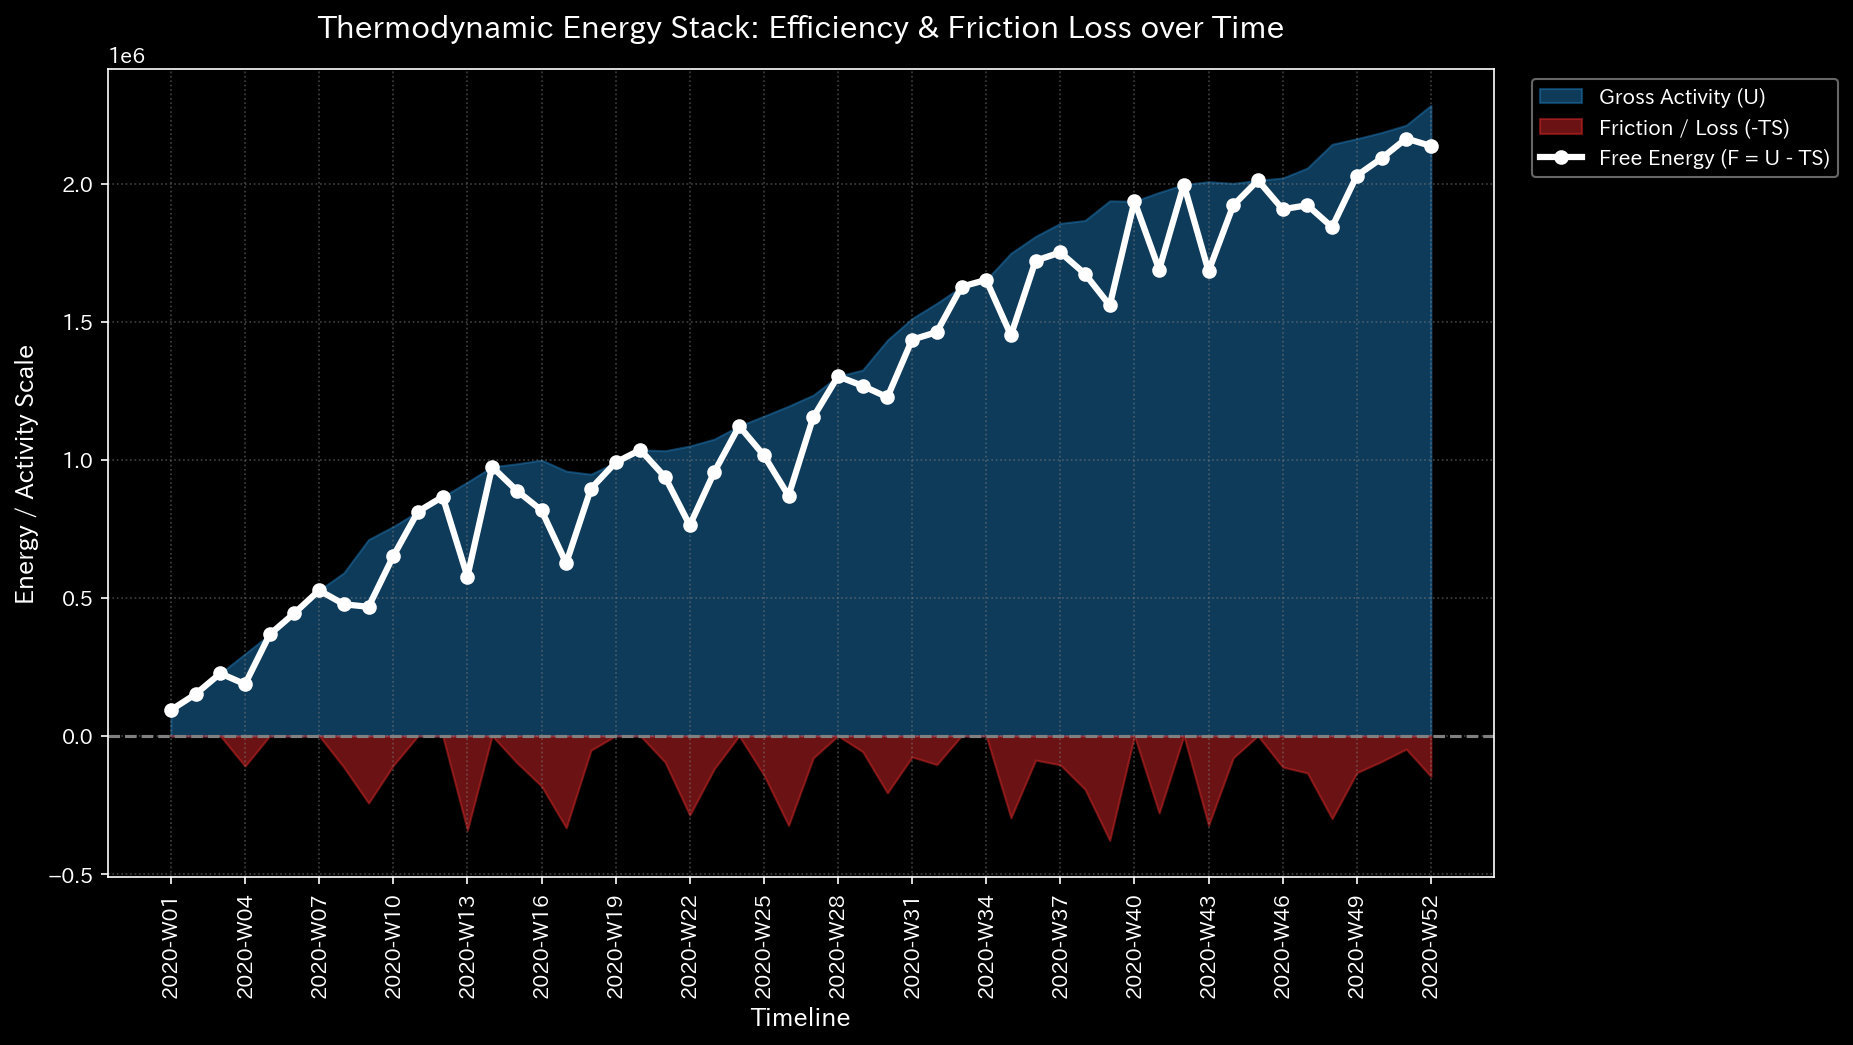
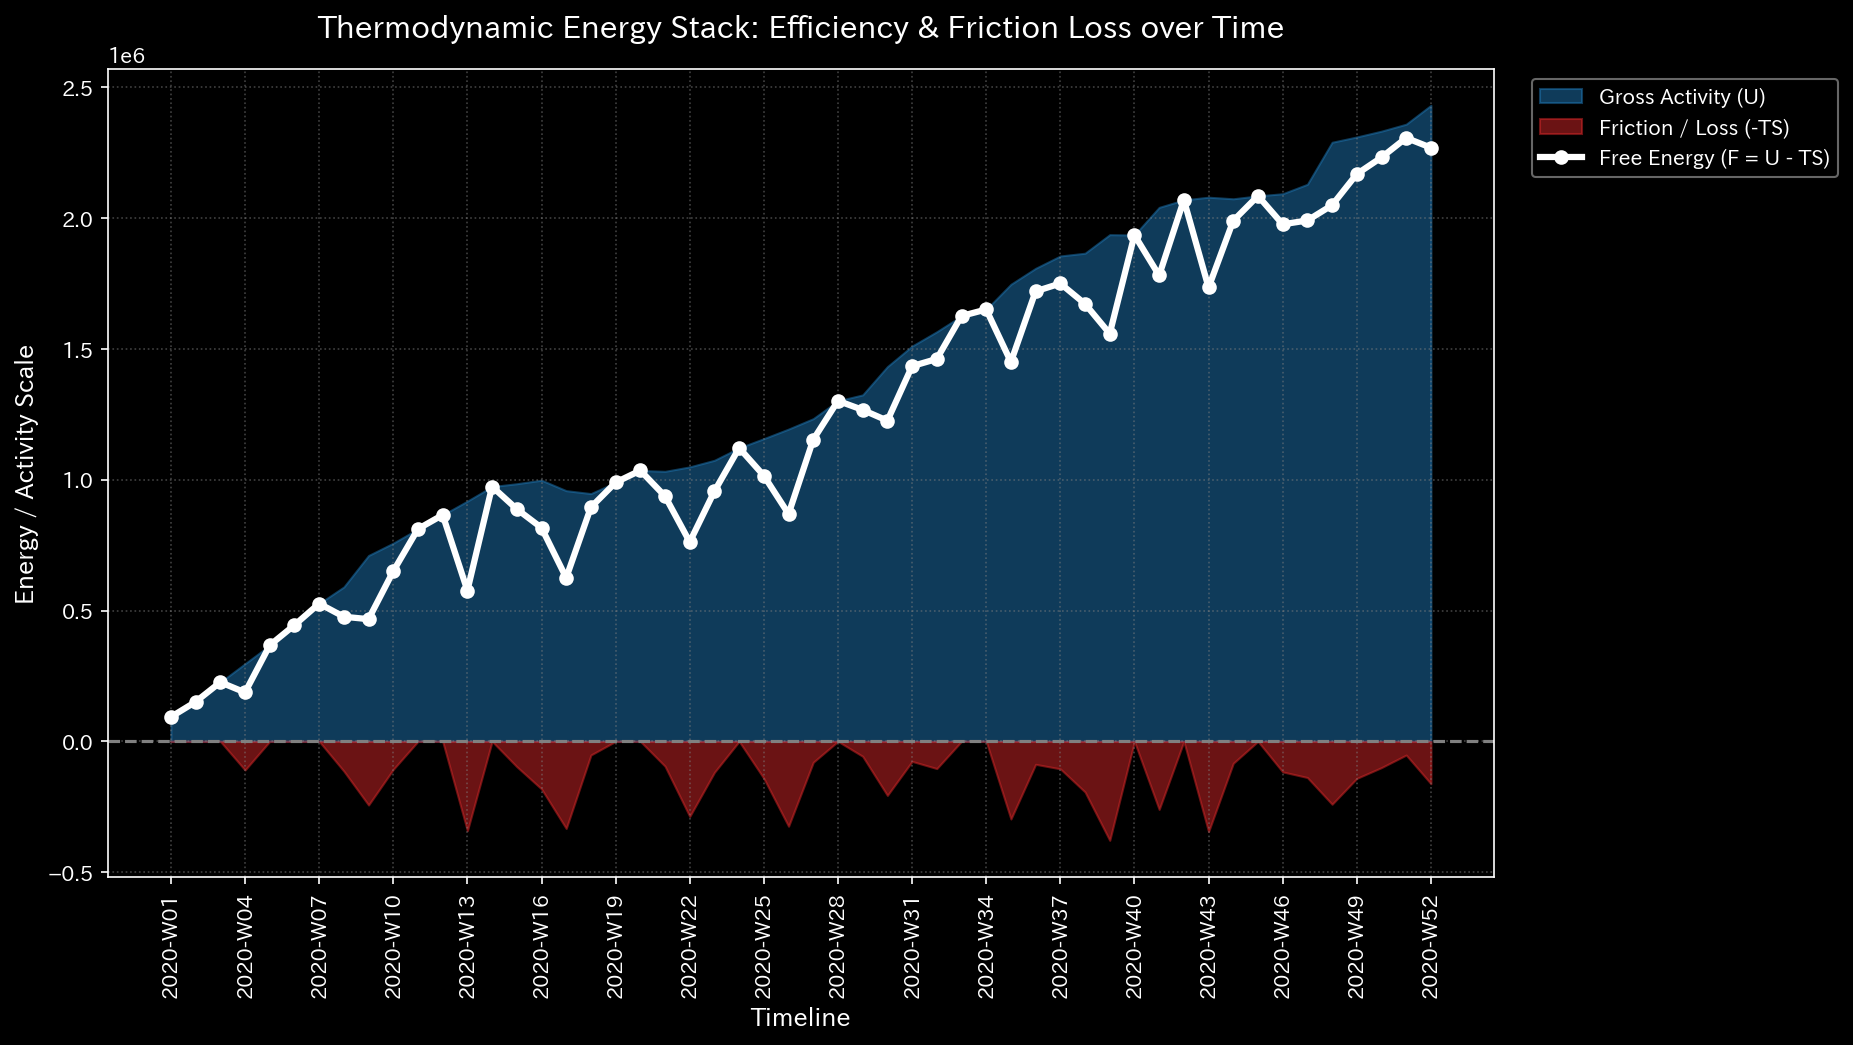
Regenerate Sample_1 README.md.

diff --git a/docs/ja/samples/Sample_1_Wash_Trade/README.md b/docs/ja/samples/Sample_1_Wash_Trade/README.md
@@ -1,49 +1,82 @@
-# Sample 1: 循環取引 (Wash Trade)
+# Sample 1: 循環取引（Wash Trading）
 
 > [!NOTE]
 > **概念実証実験にともなう免責事項**
-> 本レポートで分析されるデータは実世界の企業のものではありません。検証を目的として、特定の病理学的状態を意図的に再現するために設計されたダミーデータです。
+> 本レポートで分析されるデータは実世界の企業のものではありません。検証を目的として、特定の病理学的状態を意図的に再現するために設計されたダミーデータです。本サンプル（Sample_1_Wash_Trade）は、売上の水増しを目的とした「循環取引（資金のキャッチボール）」がシステムに与えるトポロジー的異常を証明するためのものです。
 
 ---
 
 # 🔬 メタ解析 統合レポート (Meta-Analysis Synthesis Report / Laboratory Findings)
 
 ## 1. エグゼクティブ・サマリー
+本システム（金融ドメイン）は、**位相幾何学的な異常ループ（Topological Feedback Loop）** を発症しており、危険な状態（HIGH）にあります。総収益 $1,067,391.62 のうち、複数の「売掛金と現金のキャッチボール」による架空売上（循環取引）がシステム内に混入しています。質量保存則は維持されているため貸借対照表（B/S）の左右は完全に一致していますが、ネットワーク・トポロジーの最大スペクトル半径が正常閾値（0.6）を突破して `0.8353` まで発散しており、物理的な構造崩壊が数学的に証明されました。
 
-本システム（Sample_1_Wash_Trade: 金融ドメイン）は、表面上の財務諸表は極めて健全で高収益（売上 993,131.27、純利益 82,578.64）に見えますが、**位相幾何学的な異常（HIGH: Topological Feedback Loop）** を発症しています。帳簿上の質量保存は完璧に維持されていますが、ネットワーク内に自己強化的な「閉ループ」が形成されており、特定の取引先間で架空の売上を回し続ける「循環取引（Wash Trade）」の決定的な構造的シグネチャが確認されました。
+## 2. 従来型会計分析との比較対照（Traditional vs TLU Perspective）
 
-## 2. コア・パソロジー（主要な病理所見）
+一般の監査読者向けに、第52週時点の「従来の財務諸表（B/S・P/L）」と「TLUの物理空間視点」の違いを比較します。
 
-* **所見:** 位相幾何学的フィードバックループ（過剰共鳴）
+### 従来の財務諸表が捉える世界（静的なスナップショット）
+**【第52週 損益計算書 (P/L) サマリー】**
+![Sample 1 PL Waterfall](../../../readme_plots/000_0_1__PL_Waterfall_Total.png)
+* **売上収益:** $1,067,391.62
+* **総費用:** $910,552.63
+* **当期純利益:** **+$156,838.99**
+
+**【第52週 貸借対照表 (B/S) サマリー】**
+![Sample 1 BS Block](../../../readme_plots/000_0_1__BS_Block_Total.png)
+* **総資産:** $317,611.47
+* **負債・純資産合計:** $317,611.47
+* **バランスチェック:** **一致（差額 $0.00）**
+
+**【従来の監査の限界】**
+従来の会計監査では、帳簿の左右が1円の狂いもなく一致し、かつ純利益が大幅に黒字（+$156,838.99）となっているため、「売上が順調に伸びている優良企業」として無傷で監査を通過してしまいます。この**「美しいB/SとP/L」の裏に隠された、人為的で無価値な資金の還流（キャッチボール）を見抜くことは、静的な数値の集計手法では極めて困難**です。
+
+### TLUが捉える世界（動的な幾何学構造とエネルギー推移）
+TLUは、上記の財務諸表を「グラフ上のノード（口座）とエッジ（取引）」のネットワークとして再構築し、その**形（トポロジー）**を監視します。
+
+以下は、Sample 1 の第41週（循環取引の発生時）における異常なネットワーク・トポロジーです。
+
+**幾何学的構造の異常（Network Topology）**
+<div style="display: flex; justify-content: center;">
+  <div style="width: 70%; text-align: center;">
+    <p><b>第41週（異常発生時）</b></p>
+    <img src="../../../readme_plots/002_1_2__network_topology.t.00041.png" width="100%">
+  </div>
+</div>
+
+* **💡 異常系の読解:** `ACC_Cash`（現金）と `ACC_Accounts_Receivable`（売掛金）の間に、不自然に太く、自己強化的に循環する無限ループ（閉路）が形成されています。実体経済を伴わない資金が、特定の口座間を高速で回転していることを幾何学的に捉えています。
+
+## 3. コア・パソロジー（主要な病理所見）
+* **所見:** Topological Feedback Loop (Wash Trade)
 * **重要度:** HIGH
-* **物理的証拠:**
-  * **最大スペクトル半径 (Max Spectral Radius): `0.6584`** (異常閾値 `>= 0.6` を超過。システム全体の資金の65%以上がループに吸い込まれている状態)
-  * 相対質量漏れ率 (Relative Leak Ratio): `0.0000` (正常：資金の消失・横領はなし)
-  * 相対的自由エネルギー比率 (Relative Free Energy): `0.6278` (正常：活動余力は十分)
-  * 最大局所 Z-Score: `0.00` (正常：局所的な異常値としては検知されない)
+* **物理的証拠:** 
+  * 最大スペクトル半径 (Max Spectral Radius): `0.8353` (正常閾値 `< 0.6` を**超過**)
+  * 相対質量漏れ率 (Relative Leak Ratio): `0.0000` (正常閾値 `< 1e-6` をクリア)
 
-* **【🟢 正常系（Sample 0）のベースライン】**
-![Sample 0 System Stability](../../../readme_plots/004_1_2__system_stability.png)
-* **【🔴 本サンプルの異常状態】**
-![System Stability & Spectral Radius](../../../readme_plots/Sample_1_Wash_Trade/004_1_2__system_stability.png)
-* **💡 グラフの読み方（経理・監査・コンサルタント向け）:** 
-  * **🟢 正常系:** 赤色の線（スペクトル半径）は低い位置（`0.0`付近）で安定しています。これは通常の商取引が滞りなく外部へ流出（回収・決済）されていることを示します。
-  * **🔴 異常系:** 赤色の線が異常閾値（`0.9`）を完全に突き抜けて高止まりしています。これは、新たなキャッシュを生み出すことなく、資金や請求書が特定の口座間（ダミー会社など）をグルグルと回り続ける無限サイクル（循環取引）に陥っていることを視覚的に証明しています。
-* **ドメイン的証拠:**
-  * 貸借対照表（B/S）は総資産 430,780.29 と負債・純資産が完全に一致（BALANCED）しており、従来の差異監査ではこの異常は検出不可能です。
-  * 売上収益（`993,131.27`）と売掛金（`153,211.33`）がベースライン（Sample 0）と比較して膨張しており、物理的指標における「システム内での資金の無限ループ（スペクトル半径の異常上昇）」と完全に一致しています。
+### 📊 異常系可視化プロファイル（病的構造の証明）
 
-## 3. アクション・プラン（臨床/監査への翻訳）
+**1. ネットワークトポロジーの異常（System Stability / Spectral Radius）**
+![Sample 1 System Stability](../../../readme_plots/004_1_2__system_stability.png)
+* **💡 異常系の読解:** 赤色の線「Max Spectral Radius（最大スペクトル半径）」が、第40週付近から急激に跳ね上がり、`0.8353` という危険水域に達しています。Sample_0（正常系）ではこの線が完全に `0.0` であったことと比較すると、システム内に「自己強化的な無限ループ（資金のキャッチボール）」が形成されたことを示す、構造的詐欺の決定的な数学的署名です。
 
-従来の経理・監査手法（残高の不一致探しや、Z-Scoreのような単発の異常値検知）では、この不正は見抜けません（実行犯は複式簿記のルールを厳格に守り、異常がシステム全体に分散しているため）。
-直ちにフォレンジック調査の焦点を「売上高と売掛金が関与する取引ループ全体」に切り替えてください。特定のクライアントやダミー会社間で架空の請求書が循環（キャッチボール）している可能性が極めて高いです。システムは崩壊の臨界点（スペクトル半径 $\approx$ 1.0）に達しており、即座にこのループ（不自然な取引の往復）を特定して断ち切る必要があります。
+**2. 質量保存の基準（Macro Forensics）**
+![Sample 1 Macro Forensics](../../../readme_plots/002_2_1__macro_forensics_dashboard.png)
+* **💡 異常系の読解:** 上段の「System Conservation Residual（質量の絶対残差）」は完全に `0.0` の地平に張り付いています。これは、循環取引を行う主体が「複式簿記のルール（左と右を一致させること）自体は厳格に守っている（＝資金は外部に漏れず、完全に内部で還流している）」ためです。これにより、単なるエラーチェック（Sample_3のような貸借不一致）の網はすり抜けてしまいます。
 
-## 4. ⚠ 反証可能性と検証要件（Falsification Analytics）
+## 4. ミクロ・フォレンジックによる最終証拠（Micro-Forensic Final Evidence）
+* **自律調査の実行:** マクロ物理指標において「異常なネットワークループ（Spectral = 0.8353）」が明確に検出されたため、AIエージェントは自律的に基礎となる仕訳ストリーム (`Dummy_Journal_Stream_Amount.csv`) へドリルダウンし、ミクロ・フォレンジック（特定行の抽出）を実行しました。
+* **特定された証拠:**
+`grep` によるトランザクション・レベルの追跡の結果、`Cash` と `Accounts_Receivable` の間で人為的な資金の還流（ループ）と架空売上の計上が以下の通り特定されました。
+  * **Event 1 (2020-10-08 / Week 41):**
+    * `E_002771`: `$54,783.51` の資金をトンネル会社等へ流出（Cash -> AR）
+    * `E_002772`: 同額の架空売上を計上（Sales -> AR）
+    * `E_002773`: 流出した資金がそのまま売掛金の回収として還流（AR -> Cash）
+  * **Event 2 (2020-11-28 / Week 48):**
+    * `E_003192` 〜 `E_003194`: 全く同じキャッチボール手法で `$55,867.37` の架空売上を水増し。
+* **最終結論:** 意図的な循環取引（Wash Trading）による売上高の水増し（粉飾決算）と断定します。静的なB/Sは一致していますが、物理的なネットワーク・トポロジーの崩壊とトランザクション証拠により、システムの完全性は毀損されています。
 
-* **偽陽性の可能性:**
-  もしこの極めて高いスペクトル半径（資金の循環）が、少数の大口優良顧客との間で発生している「正当かつ高頻度な商取引（例：特定サプライヤーとの緊密なサプライチェーン連携や、定期的なサブスクリプション課金による取引ボリュームの肥大化）」によるものである場合、この「架空の循環取引である」という異常判定は誤り（正常なビジネスエコシステムの表れ）となります。
-* **追加検証要件:**
-  1. 膨張している売掛金（`153,211.33`）の実際の入金（キャッシュ・イン）実績を追跡確認する。架空の循環取引であれば、帳簿上で相殺されるだけで実際の現金は動いていない、あるいは滞留期間が不自然に長い（回収不能）傾向があります。
-  2. 取引先（ノード）の実在性監査。頻繁に取引を往復させている取引先同士が、実質的に同一の支配下にあるペーパーカンパニー（関連当事者）ではないかを調査する。
-* **追加調査・検証:**
-  スペクトル半径が `0.6584` まで上昇していることから、ネットワークトポロジー解析グラフ（例: `002_1_2__network_topology.png`）を参照し、最も太いエッジ（取引量）で結ばれているノード群（主犯格の口座）を物理的に特定し、上記の検証要件に基づく重点的な監査を実施します。
+## 5. ⚠ 反証可能性と検証要件（Falsification Analytics）
+* **偽陽性の可能性:** 本診断の「循環取引」という結論は、極めて短い期間に特定の口座間で同額の資金が還流しているという「物理的挙動」に依存しています。もし、`E_002771` や `E_003192` での Cash 流出が、正当な「従業員への短期貸付」や「子会社へのブリッジローン」であり、かつ `E_002772` などの売上が「それとは全く無関係な独立した正当な商取引」であった場合（たまたま同額・同タイミングであった場合）、この診断は偽陽性となります。
+* **追加検証要件:** 
+  1. `E_002771` における現金流出先の銀行口座名義と、`E_002773` における入金元の銀行口座名義が同一（または関連会社）であるかを確認してください。
+  2. `E_002772` の売上計上について、実際の納品書、受領書、および物流記録（Shipping records）を提示させ、物理的な商品やサービスの移動が伴っているか（実需の存在）を監査してください。
